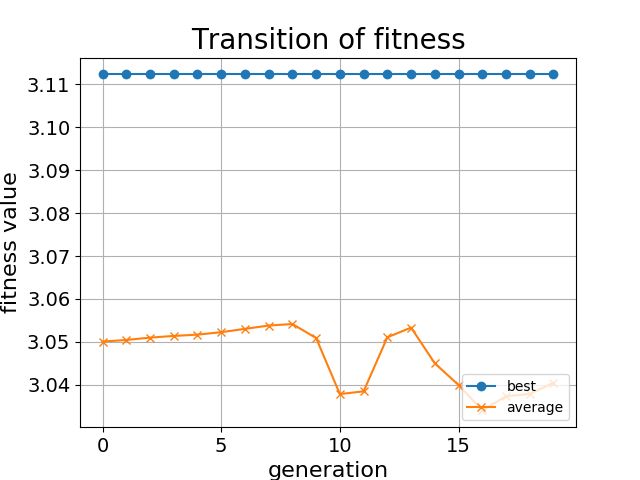
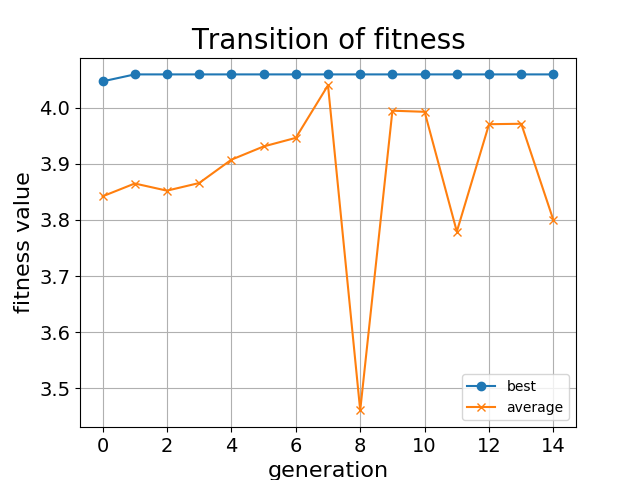
change nothing

diff --git a/models/ga.py b/models/ga.py
@@ -286,7 +286,7 @@ class GA:
             #selection
 
             #steady state ga
-            #'''
+            '''
             for i in range(0,len(temp),2):
                 if i + 1 < self.num:
                     store = []
@@ -305,7 +305,7 @@ class GA:
             for e in range(self.num):
                 total += self.group[e][-1]
             self.averagegroup.append(total/self.num)
-            #'''
+            '''
             '''
             #tournament selection
             for select in range(self.num):
@@ -322,7 +322,7 @@ class GA:
             self.averagegroup.append(total/self.num)
             '''
 
-            '''
+            #'''
             #roulette selection
             #store the best individual
             temp.sort(key=lambda x:x[-1],reverse = True)
@@ -338,15 +338,15 @@ class GA:
                     roulette -= temp[ark][-1]
                     ark = (ark + 1) % self.num
                 self.group[i] = temp[ark]
-            #self.group.sort(key=lambda x:x[-1],reverse = True)
+            self.group.sort(key=lambda x:x[-1],reverse = True)
             self.bestgroup.append(self.group[0])
             total = 0
             for e in range(self.num):
                 total += self.group[e][-1]
             self.averagegroup.append(total/self.num)
-            #if gene > 10 and self.bestgroup[-1] == self.bestgroup[-4]:
-            #    break
-            '''
+            if gene > 10 and self.bestgroup[-1] == self.bestgroup[-2] == self.bestgroup[-3]:
+                break
+            #'''
         #print result
         self.group.sort(key=lambda x:x[-1],reverse = True)
         for i in range(0,self.num):
